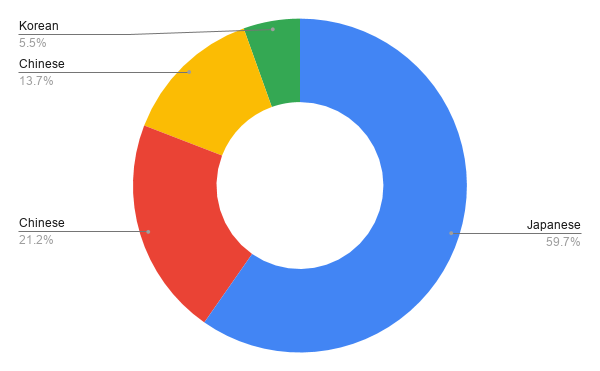
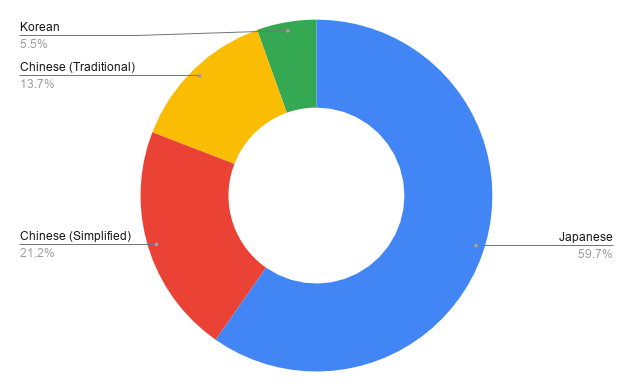
Updated cjk breakdown graph and specify bandwidth units in network models.

diff --git a/analysis/network_models.py b/analysis/network_models.py
@@ -23,6 +23,8 @@ ESTIMATED_HTTP_RESPONSE_HEADER_SIZE = 35
 # across a variety of connection types. For each connection type 5 different speeds are provided
 # ranging from the slowest observed speeds to the fastest for that connection type.
 
+# Upload and Download speeds are specified in bytes per millisecond.
+
 # Mobile 2G
 
 MOBILE_2G_SLOWEST = simulation.NetworkModel("mobile_2g_slowest",
